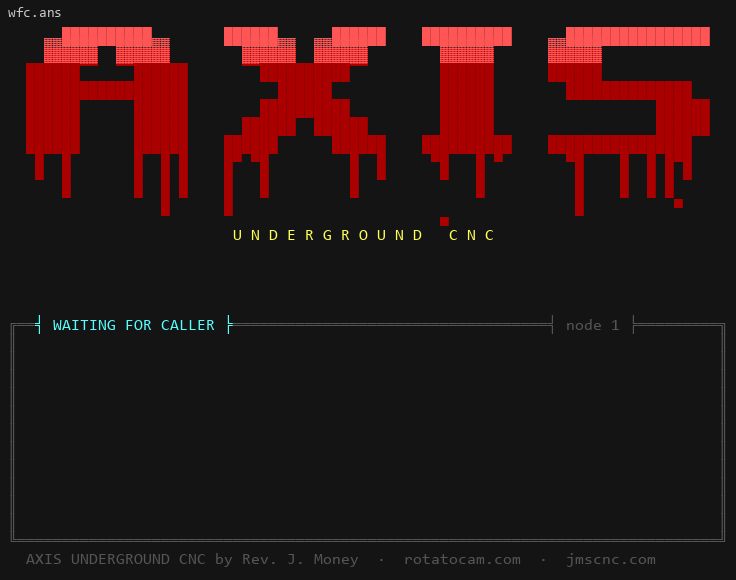
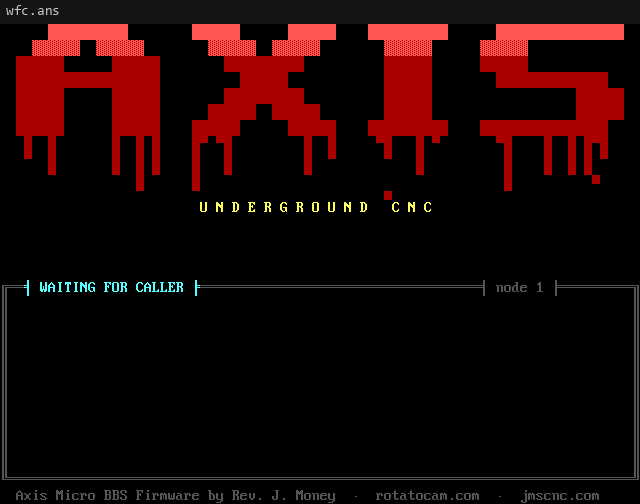
Software is Axis Micro BBS Firmware (AXIS UNDERGROUND CNC is the board); Axis firmware file area first; areaN sorts by number

diff --git a/src/platform/cyd/wfc_art.h b/src/platform/cyd/wfc_art.h
@@ -31,5 +31,5 @@ static const uint8_t kWfcArt[30][80][2] = {
   {{186,8},{32,7},{32,7},{32,7},{32,7},{32,7},{32,7},{32,7},{32,7},{32,7},{32,7},{32,7},{32,7},{32,7},{32,7},{32,7},{32,7},{32,7},{32,7},{32,7},{32,7},{32,7},{32,7},{32,7},{32,7},{32,7},{32,7},{32,7},{32,7},{32,7},{32,7},{32,7},{32,7},{32,7},{32,7},{32,7},{32,7},{32,7},{32,7},{32,7},{32,7},{32,7},{32,7},{32,7},{32,7},{32,7},{32,7},{32,7},{32,7},{32,7},{32,7},{32,7},{32,7},{32,7},{32,7},{32,7},{32,7},{32,7},{32,7},{32,7},{32,7},{32,7},{32,7},{32,7},{32,7},{32,7},{32,7},{32,7},{32,7},{32,7},{32,7},{32,7},{32,7},{32,7},{32,7},{32,7},{32,7},{32,7},{32,7},{186,8}},
   {{186,8},{32,7},{32,7},{32,7},{32,7},{32,7},{32,7},{32,7},{32,7},{32,7},{32,7},{32,7},{32,7},{32,7},{32,7},{32,7},{32,7},{32,7},{32,7},{32,7},{32,7},{32,7},{32,7},{32,7},{32,7},{32,7},{32,7},{32,7},{32,7},{32,7},{32,7},{32,7},{32,7},{32,7},{32,7},{32,7},{32,7},{32,7},{32,7},{32,7},{32,7},{32,7},{32,7},{32,7},{32,7},{32,7},{32,7},{32,7},{32,7},{32,7},{32,7},{32,7},{32,7},{32,7},{32,7},{32,7},{32,7},{32,7},{32,7},{32,7},{32,7},{32,7},{32,7},{32,7},{32,7},{32,7},{32,7},{32,7},{32,7},{32,7},{32,7},{32,7},{32,7},{32,7},{32,7},{32,7},{32,7},{32,7},{32,7},{186,8}},
   {{200,8},{205,8},{205,8},{205,8},{205,8},{205,8},{205,8},{205,8},{205,8},{205,8},{205,8},{205,8},{205,8},{205,8},{205,8},{205,8},{205,8},{205,8},{205,8},{205,8},{205,8},{205,8},{205,8},{205,8},{205,8},{205,8},{205,8},{205,8},{205,8},{205,8},{205,8},{205,8},{205,8},{205,8},{205,8},{205,8},{205,8},{205,8},{205,8},{205,8},{205,8},{205,8},{205,8},{205,8},{205,8},{205,8},{205,8},{205,8},{205,8},{205,8},{205,8},{205,8},{205,8},{205,8},{205,8},{205,8},{205,8},{205,8},{205,8},{205,8},{205,8},{205,8},{205,8},{205,8},{205,8},{205,8},{205,8},{205,8},{205,8},{205,8},{205,8},{205,8},{205,8},{205,8},{205,8},{205,8},{205,8},{205,8},{205,8},{188,8}},
-  {{32,7},{32,7},{65,8},{88,8},{73,8},{83,8},{32,8},{85,8},{78,8},{68,8},{69,8},{82,8},{71,8},{82,8},{79,8},{85,8},{78,8},{68,8},{32,8},{67,8},{78,8},{67,8},{32,8},{98,8},{121,8},{32,8},{82,8},{101,8},{118,8},{46,8},{32,8},{74,8},{46,8},{32,8},{77,8},{111,8},{110,8},{101,8},{121,8},{32,8},{32,8},{250,8},{32,8},{32,8},{114,8},{111,8},{116,8},{97,8},{116,8},{111,8},{99,8},{97,8},{109,8},{46,8},{99,8},{111,8},{109,8},{32,8},{32,8},{250,8},{32,8},{32,8},{106,8},{109,8},{115,8},{99,8},{110,8},{99,8},{46,8},{99,8},{111,8},{109,8},{32,7},{32,7},{32,7},{32,7},{32,7},{32,7},{32,7},{32,7}},
+  {{32,7},{32,7},{65,8},{120,8},{105,8},{115,8},{32,8},{77,8},{105,8},{99,8},{114,8},{111,8},{32,8},{66,8},{66,8},{83,8},{32,8},{70,8},{105,8},{114,8},{109,8},{119,8},{97,8},{114,8},{101,8},{32,8},{98,8},{121,8},{32,8},{82,8},{101,8},{118,8},{46,8},{32,8},{74,8},{46,8},{32,8},{77,8},{111,8},{110,8},{101,8},{121,8},{32,8},{32,8},{250,8},{32,8},{32,8},{114,8},{111,8},{116,8},{97,8},{116,8},{111,8},{99,8},{97,8},{109,8},{46,8},{99,8},{111,8},{109,8},{32,8},{32,8},{250,8},{32,8},{32,8},{106,8},{109,8},{115,8},{99,8},{110,8},{99,8},{46,8},{99,8},{111,8},{109,8},{32,7},{32,7},{32,7},{32,7},{32,7}},
 };

diff --git a/src/bbs/config.cpp b/src/bbs/config.cpp
@@ -4,6 +4,7 @@
 
 #include <cctype>
 #include <cstdlib>
+#include <map>
 
 namespace axis::bbs {
 
@@ -34,7 +35,8 @@ const std::vector<std::string>& tzNames() {
 }
 
 std::vector<FileArea> defaultFileAreas() {
-    return {{"rotatocam-pro", "RotatoCAM: Pro"},
+    return {{"axis", "Axis Micro BBS Firmware"},  // this firmware, the BBS, our door code
+            {"rotatocam-pro", "RotatoCAM: Pro"},
             {"rotatocam-free", "RotatoCAM: Free"},
             {"cnc-free", "CNC Software: Freeware"},
             {"cnc-share", "CNC Software: Shareware/Trials"},
@@ -56,7 +58,7 @@ std::vector<FileArea> defaultFileAreas() {
 BbsConfig parseConfig(const std::string& ini) {
     BbsConfig              c;
     std::vector<DoorEntry> listed;
-    std::vector<FileArea>  areas;
+    std::map<int, FileArea> areas;  // by number: sorted, and a repeated number replaces
     size_t pos = 0;
     while (pos < ini.size()) {
         size_t end = ini.find('\n', pos);
@@ -97,17 +99,20 @@ BbsConfig parseConfig(const std::string& ini) {
             }
         } else if (k.rfind("area", 0) == 0 && k.size() > 4 && std::isdigit((unsigned char)k[4])) {
             size_t bar = v.find('|');
-            if (bar != std::string::npos && bar > 0) areas.push_back({v.substr(0, bar), v.substr(bar + 1)});
+            if (bar != std::string::npos && bar > 0) areas[std::atoi(k.c_str() + 4)] = {v.substr(0, bar), v.substr(bar + 1)};
         } else c.unknown.emplace_back(k, v);
     }
     if (listed.empty()) listed = c.doors;  // none in the file: keep the default list
     c.doors = listed;
-    if (!areas.empty()) c.areas = areas;
+    if (!areas.empty()) {
+        c.areas.clear();
+        for (auto& a : areas) c.areas.push_back(a.second);
+    }
     return c;
 }
 
 std::string formatConfig(const BbsConfig& c) {
-    std::string s = "# AXIS UNDERGROUND CNC settings (written by the board; safe to edit)\n";
+    std::string s = "# Axis Micro BBS Firmware settings (written by the board; safe to edit)\n";
     auto kv = [&](const char* k, const std::string& v) { s += std::string(k) + "=" + v + "\n"; };
     kv("bbs_name", c.bbsName);
     kv("sysop_handle", c.sysopHandle);

diff --git a/src/bbs/node.cpp b/src/bbs/node.cpp
@@ -61,7 +61,7 @@ std::string welcome(int node, const SysInfo& s, const BbsConfig& cfg) {
         who += "[" + std::to_string(i + 1) + "] " + ((int)i + 1 == node ? "you" : s.nodes[i].empty() ? "waiting" : s.nodes[i]) + " ";
     std::string dial = s.host + "  " + s.ip;
     w += boxEdge(true);
-    w += boxLine("BBS", cfg.bbsName, "software", std::string("AXIS UNDERGROUND CNC ") + kAxisVersion);
+    w += boxLine("BBS", cfg.bbsName, "software", std::string(kAxisSoftware) + " " + kAxisVersion);
     w += boxLine("sysop", cfg.sysopHandle.empty() ? "the sysop" : cfg.sysopHandle, "license", "GPL-3.0+ by Rev. J. Money");
     w += boxLine("from", cfg.location.empty() ? "the underground" : cfg.location, "hardware", s.hardware);
     w += boxLine("dial", dial, "storage", s.storage);
@@ -226,7 +226,7 @@ void Node::key(char c) {
         case 'c':
             out_ += "\r\n\r\n   ";
             out_ += RED;
-            out_ += "AXIS UNDERGROUND CNC";
+            out_ += kAxisSoftware;
             out_ += DIM;
             out_ += " by ";
             out_ += HI;

diff --git a/tests/test_config.cpp b/tests/test_config.cpp
@@ -96,7 +96,8 @@ TEST_CASE("config has the default file areas, music and CAD/CAM included") {
             if (a.name == name) return true;
         return false;
     };
-    CHECK(c.areas.size() == 17);
+    CHECK(c.areas.size() == 18);
+    CHECK(c.areas[0].name == "Axis Micro BBS Firmware");  // our own area comes first
     CHECK(has("RotatoCAM: Pro"));
     CHECK(has("Abandonware"));
     CHECK(has("CAD/CAM Software"));
@@ -113,4 +114,12 @@ TEST_CASE("config file areas round trip and replace the defaults") {
     auto d = parseConfig(formatConfig(c));
     REQUIRE(d.areas.size() == 2);
     CHECK(d.areas[0].name == "G-code and Toolpaths");
+}
+
+TEST_CASE("file areas sort by number and a repeated number replaces the earlier one") {
+    auto c = parseConfig("area2=gcode|G-code\narea1=text|Text\narea2=models|3D Models\narea0=axis|Axis Micro BBS Firmware\n");
+    REQUIRE(c.areas.size() == 3);
+    CHECK(c.areas[0].id == "axis");
+    CHECK(c.areas[1].id == "text");
+    CHECK(c.areas[2].id == "models");
 }

diff --git a/src/main.cpp b/src/main.cpp
@@ -1,6 +1,6 @@
 // SPDX-License-Identifier: GPL-3.0-or-later
 // Copyright (C) 2026 Rev. J. Money
-// AXIS UNDERGROUND CNC firmware entry: board, storage, settings, WiFi, the telnet listener
+// Axis Micro BBS Firmware entry: board, storage, settings, WiFi, the telnet listener
 // and the sysop screen. On first boot it runs setup (tap: on this screen or over telnet).
 // One node per board for now; callers beyond that hear "busy".
 #include <Arduino.h>
@@ -577,7 +577,8 @@ void setup() {
     delay(200);
     const char* panel = boardInit(1, 40000000);
     if (!screenInit()) Serial.println("axis: no memory for the screen copy");
-    Serial.printf("\naxis: AXIS UNDERGROUND CNC booting, panel %s, heap %u\n", panel, ESP.getFreeHeap());
+    Serial.printf("\naxis: Axis Micro BBS Firmware %s booting, panel %s, heap %u\n", axis::bbs::kAxisVersion, panel,
+                  ESP.getFreeHeap());
     title("starting...");
     screenPush();
     storageInit();

diff --git a/tests/test_node.cpp b/tests/test_node.cpp
@@ -27,7 +27,7 @@ TEST_CASE("node greets with the AXIS welcome and asks for a handle") {
     Node n(1, info);
     n.begin(0);
     std::string out = n.takeOutput();
-    CHECK(out.find("AXIS UNDERGROUND CNC") != std::string::npos);
+    CHECK(out.find("Axis Micro BBS Firmware") != std::string::npos);
     CHECK(out.find("Handle:") != std::string::npos);
     CHECK(n.state() == Node::State::Login);
 }
@@ -81,6 +81,7 @@ TEST_CASE("credits name Rev J Money, rotatocam.com and jmscnc.com") {
     CHECK(out.find("rotatocam.com") != std::string::npos);
     CHECK(out.find("jmscnc.com") != std::string::npos);
     CHECK(out.find("GPL") != std::string::npos);
+    CHECK(out.find("Axis Micro BBS Firmware") != std::string::npos);
 }
 
 TEST_CASE("info shows the node's address and uptime") {

diff --git a/src/bbs/sysop_menu.cpp b/src/bbs/sysop_menu.cpp
@@ -151,7 +151,7 @@ std::vector<std::string> SysopMenu::lines(const SysopData& d) const {
             for (auto& l : d.log.lines()) all.push_back(l.size() > (size_t)kLineChars ? l.substr(0, kLineChars) : l);
             break;
         case Screen::System:
-            all.push_back(row("software", std::string("AXIS UNDERGROUND CNC ") + kAxisVersion));
+            all.push_back(row("software", std::string(kAxisSoftware) + " " + kAxisVersion));
             all.push_back(row("hardware", d.info.hardware));
             all.push_back(row("storage", d.info.storage));
             all.push_back(row("free RAM", std::to_string(d.info.freeHeap) + " bytes"));

diff --git a/tools/art/make_wfc.py b/tools/art/make_wfc.py
@@ -84,7 +84,7 @@ def main(out):
     text(28, 0, [0xC8] + [0xCD] * 78 + [0xBC], 0x08)
     text(16, 3, [0xB5] + [ord(ch) for ch in " WAITING FOR CALLER "] + [0xC6], 0x0B)
     text(16, 60, [0xB5] + [ord(ch) for ch in " node 1 "] + [0xC6], 0x08)
-    text(29, 2, "AXIS UNDERGROUND CNC by Rev. J. Money  \xfa  rotatocam.com  \xfa  jmscnc.com".encode('latin1'), 0x08)
+    text(29, 2, "Axis Micro BBS Firmware by Rev. J. Money  \xfa  rotatocam.com  \xfa  jmscnc.com".encode('latin1'), 0x08)
 
     # write ANSI: clear, then each row with SGR changes only where the colour changes
     cga = [0, 4, 2, 6, 1, 5, 3, 7]  # CGA index -> ANSI colour number

diff --git a/src/bbs/version.h b/src/bbs/version.h
@@ -4,6 +4,8 @@
 
 namespace axis::bbs {
 
+// The software's name and version (the board's own name, e.g. AXIS UNDERGROUND CNC, is a setting).
+constexpr const char* kAxisSoftware = "Axis Micro BBS Firmware";
 constexpr const char* kAxisVersion = "0.3";  // shown on the login screen and in Info
 
 }  // namespace axis::bbs

diff --git a/docs/FEATURES.md b/docs/FEATURES.md
@@ -1,4 +1,4 @@
-# AXIS UNDERGROUND CNC: features and settings log
+# Axis Micro BBS Firmware (AXIS UNDERGROUND CNC): features and settings log
 
 Living record of every feature and setting, updated as the project goes. Status: **planned**, **in progress**, **working** (tested end to end), **dropped**. Design: [v1 design](superpowers/specs/2026-11-02-axis-underground-bbs-v1-design.md).
 
@@ -32,7 +32,7 @@ Living record of every feature and setting, updated as the project goes. Status:
 | Storage check at boot | working | SD card if it answers, else internal flash; shown in Info and on the sysop screen |
 | Nightly maintenance | planned | 4:00 AM: door maintenance, toss/scan, purge, log rotation |
 | AXIS ANSI screens | planned | Original art by Claude from TheDraw fonts + CNC motifs; Rev edits later |
-| Credits / about screen | working (basic) | "AXIS UNDERGROUND CNC by Rev. J. Money", rotatocam.com, jmscnc.com, license and third-party credits; required by the license |
+| Credits / about screen | working (basic) | "Axis Micro BBS Firmware by Rev. J. Money", rotatocam.com, jmscnc.com, license and third-party credits; required by the license |
 | SD swap for door memory | planned (v2) | Waiting on a good SD card from Rev's stash |
 | Internet access | planned (later) | Needs login throttling, bot filtering, non-default port |
 

diff --git a/README.md b/README.md
@@ -1,6 +1,6 @@
-# AXIS UNDERGROUND CNC
+# Axis Micro BBS Firmware
 
-A real, old-school telnet BBS for the CYD (ESP32-2432S028R "Cheap Yellow Display"): ANSI menus, message bases with FidoNet-compatible storage, file areas, a sysop console, real DOS door games (starting with Legend of the Red Dragon) running on the board itself, and multi-board clustering where each CYD is one node.
+The software behind **AXIS UNDERGROUND CNC**. A real, old-school telnet BBS for the CYD (ESP32-2432S028R "Cheap Yellow Display"): ANSI menus, message bases with FidoNet-compatible storage, file areas, a sysop console, real DOS door games (starting with Legend of the Red Dragon) running on the board itself, and multi-board clustering where each CYD is one node.
 
 Status: design approved, implementation starting.
 
@@ -10,7 +10,7 @@ Status: design approved, implementation starting.
 
 ## Credits
 
-AXIS UNDERGROUND CNC is created by **Rev. J. Money**: [rotatocam.com](https://rotatocam.com) and [jmscnc.com](https://jmscnc.com).
+Axis Micro BBS Firmware and the AXIS UNDERGROUND CNC board are created by **Rev. J. Money**: [rotatocam.com](https://rotatocam.com) and [jmscnc.com](https://jmscnc.com).
 
 ## License
 

diff --git a/THIRD_PARTY_NOTICES.md b/THIRD_PARTY_NOTICES.md
@@ -1,6 +1,6 @@
 # Third-party notices
 
-AXIS UNDERGROUND CNC includes these third-party components, each under its own license.
+Axis Micro BBS Firmware includes these third-party components, each under its own license.
 
 | Component | Where | License | Source |
 |---|---|---|---|
